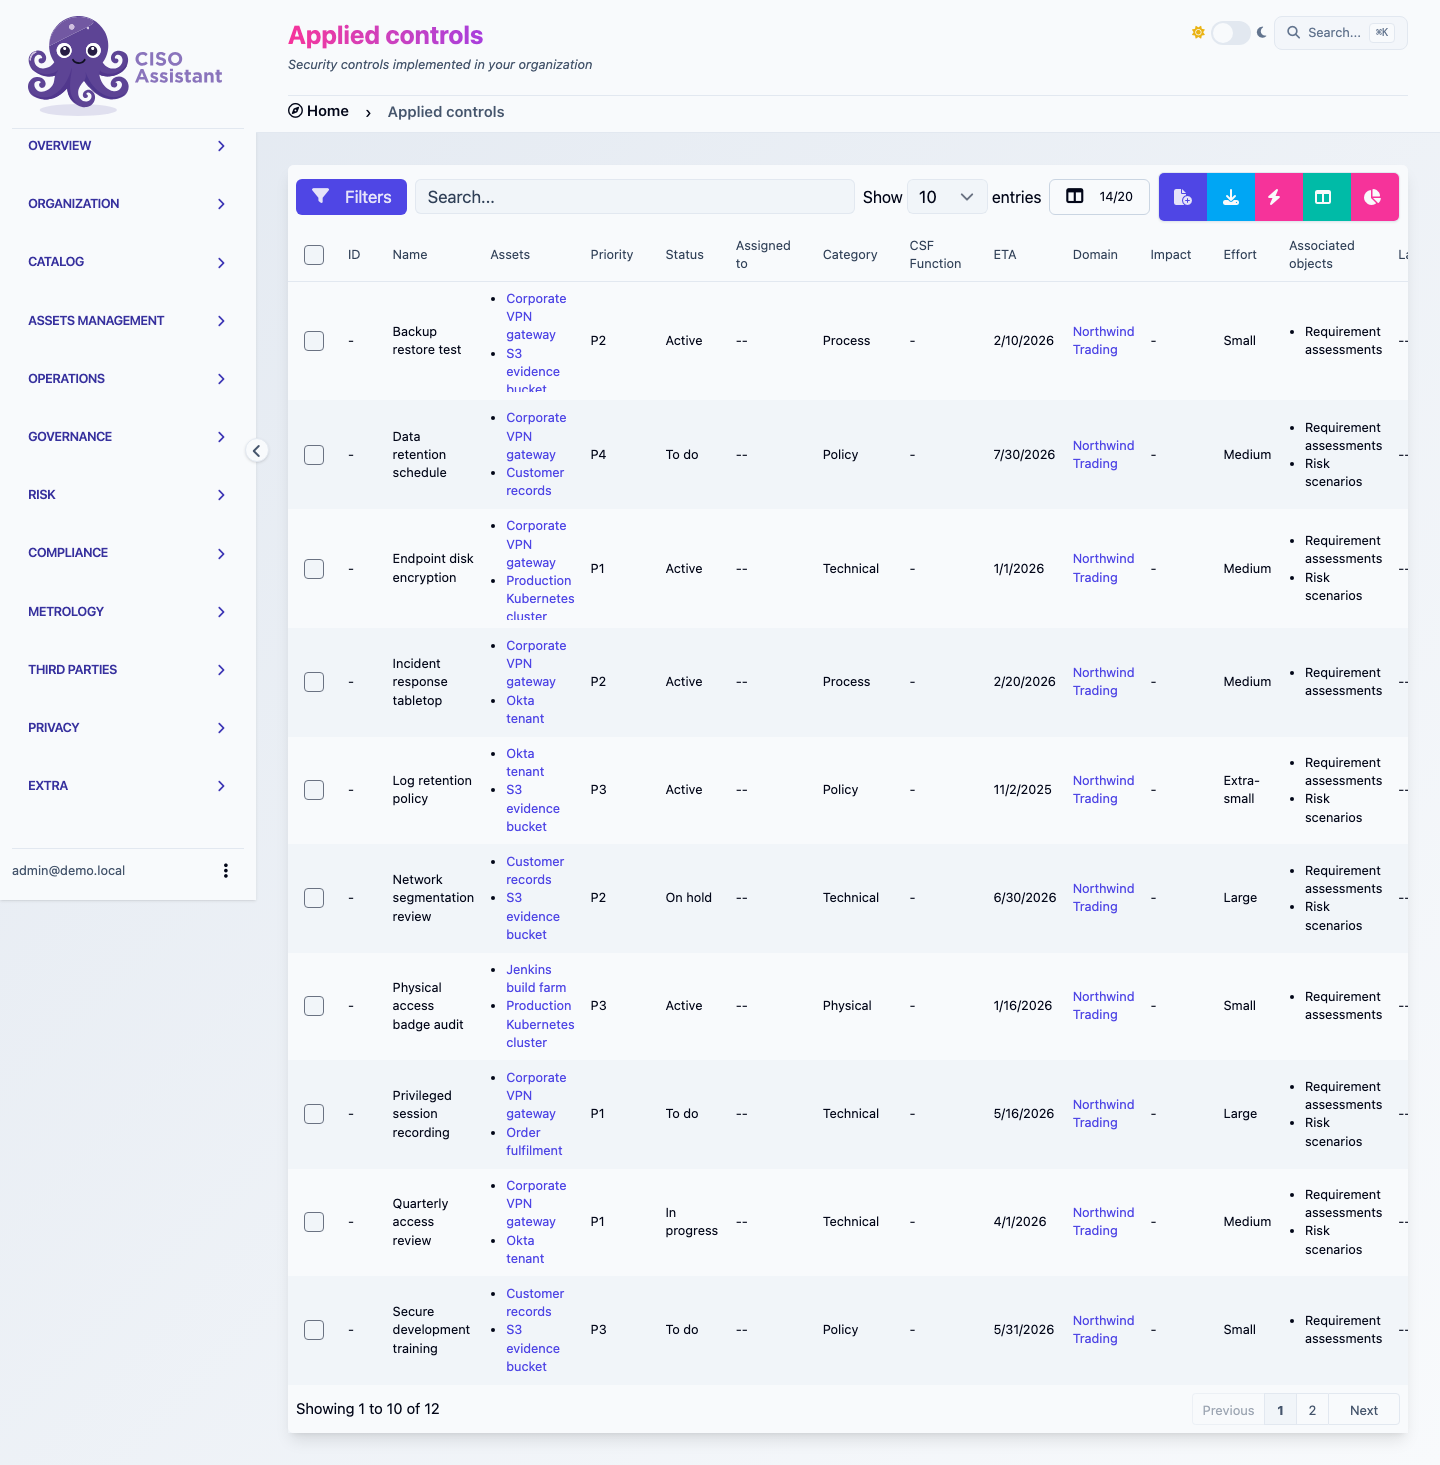
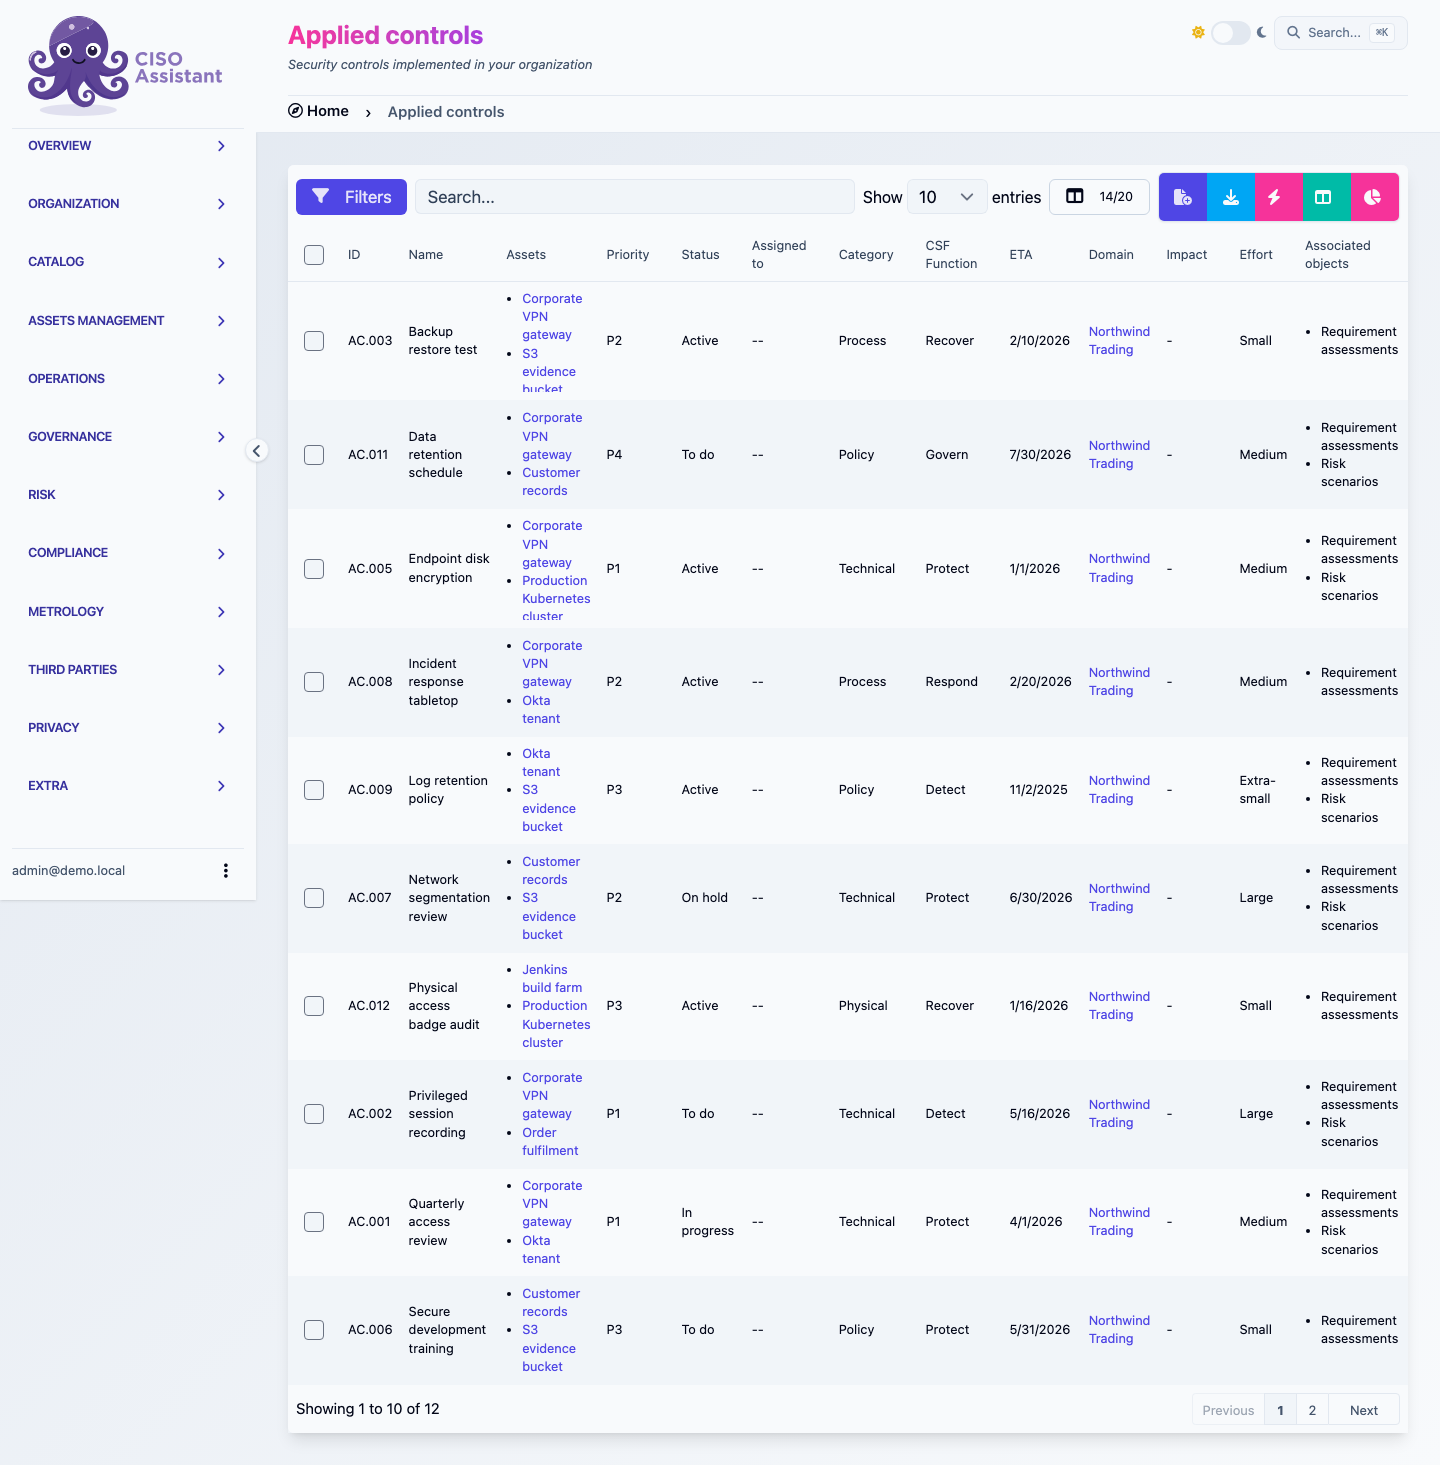
fixup

diff --git a/frontend/tests/docs-screenshots/manifest.ts b/frontend/tests/docs-screenshots/manifest.ts
@@ -91,13 +91,30 @@ export const shots: Shot[] = [
 	{
 		slug: 'applied-controls-full',
 		url: '/applied-controls',
-		usedBy: ['features/applied-controls.md'],
+		usedBy: ['concepts/applied-controls.md'],
 		fullPage: true
 	},
 	{
 		slug: 'risk-matrices-list',
 		url: '/risk-matrices',
-		usedBy: ['concepts/risk-matrices.md']
+		usedBy: ['concepts/libraries.md']
+	},
+	{
+		// The concept page is about the grid, not the catalogue row — the list
+		// view shows none of the anatomy the prose describes.
+		slug: 'risk-matrix-detail',
+		url: '/risk-matrices',
+		usedBy: ['concepts/risk-matrices.md'],
+		then: openDetail('risk-matrices', '5x5 ISO-27005'),
+		// The route renders a raw field dump above the grid; anchor on the
+		// matrix's own axis header and climb to the wrapper it is mounted in.
+		clip: (page) =>
+			page
+				.locator('[data-testid="x-axis-header-0"]')
+				// `wrapperClass` lands on the grid itself (RiskMatrix.svelte:160);
+				// the axis titles and the risk-level legend are its siblings, so
+				// the clip has to be the grid's parent.
+				.locator('xpath=ancestor::div[contains(@class,"mt-8")][1]/..')
 	},
 	{
 		slug: 'libraries-catalog',

diff --git a/backend/core/management/commands/seed_docs_demo.py b/backend/core/management/commands/seed_docs_demo.py
@@ -64,19 +64,95 @@ SUPPORTING_ASSETS = [
     ("Okta tenant", "Workforce identity provider, SAML and SCIM."),
 ]
 
+# ref_id, name, category, csf_function, status, priority, effort, eta offset.
+# csf_function is spread across all six functions on purpose: the analytics
+# summary renders a CSF radar, and controls left unset collapse into a single
+# "--" wedge that makes the chart useless as a documentation image.
 CONTROLS = [
-    ("Quarterly access review", "technical", "in_progress", 1, "M", 30),
-    ("Privileged session recording", "technical", "to_do", 1, "L", 75),
-    ("Backup restore test", "process", "active", 2, "S", -20),
-    ("Supplier security questionnaire", "process", "in_progress", 2, "M", 45),
-    ("Endpoint disk encryption", "technical", "active", 1, "M", -60),
-    ("Secure development training", "policy", "to_do", 3, "S", 90),
-    ("Network segmentation review", "technical", "on_hold", 2, "L", 120),
-    ("Incident response tabletop", "process", "active", 2, "M", -10),
-    ("Log retention policy", "policy", "active", 3, "XS", -120),
-    ("Vulnerability scanning cadence", "technical", "in_progress", 1, "S", 15),
-    ("Data retention schedule", "policy", "to_do", 4, "M", 150),
-    ("Physical access badge audit", "physical", "active", 3, "S", -45),
+    (
+        "AC.001",
+        "Quarterly access review",
+        "technical",
+        "protect",
+        "in_progress",
+        1,
+        "M",
+        30,
+    ),
+    (
+        "AC.002",
+        "Privileged session recording",
+        "technical",
+        "detect",
+        "to_do",
+        1,
+        "L",
+        75,
+    ),
+    ("AC.003", "Backup restore test", "process", "recover", "active", 2, "S", -20),
+    (
+        "AC.004",
+        "Supplier security questionnaire",
+        "process",
+        "govern",
+        "in_progress",
+        2,
+        "M",
+        45,
+    ),
+    (
+        "AC.005",
+        "Endpoint disk encryption",
+        "technical",
+        "protect",
+        "active",
+        1,
+        "M",
+        -60,
+    ),
+    ("AC.006", "Secure development training", "policy", "protect", "to_do", 3, "S", 90),
+    (
+        "AC.007",
+        "Network segmentation review",
+        "technical",
+        "protect",
+        "on_hold",
+        2,
+        "L",
+        120,
+    ),
+    (
+        "AC.008",
+        "Incident response tabletop",
+        "process",
+        "respond",
+        "active",
+        2,
+        "M",
+        -10,
+    ),
+    ("AC.009", "Log retention policy", "policy", "detect", "active", 3, "XS", -120),
+    (
+        "AC.010",
+        "Vulnerability scanning cadence",
+        "technical",
+        "identify",
+        "in_progress",
+        1,
+        "S",
+        15,
+    ),
+    ("AC.011", "Data retention schedule", "policy", "govern", "to_do", 4, "M", 150),
+    (
+        "AC.012",
+        "Physical access badge audit",
+        "physical",
+        "recover",
+        "active",
+        3,
+        "S",
+        -45,
+    ),
 ]
 
 AUDITS = [
@@ -185,13 +261,18 @@ class Command(BaseCommand):
         come back shuffled after each database rebuild.
         """
         base = datetime.combine(TODAY, time(9, 0), tzinfo=timezone.utc)
+        # Library-loaded referentials are stamped at import time, so they drift
+        # too whenever the database is rebuilt — and their detail pages show
+        # Created at / Updated at.
         models = (
             Asset,
             AppliedControl,
             ComplianceAssessment,
+            Framework,
             Perimeter,
             RequirementAssessment,
             RiskAssessment,
+            RiskMatrix,
             RiskScenario,
             Threat,
         )
@@ -280,14 +361,23 @@ class Command(BaseCommand):
     def build_controls(self, domain, assets):
         references = list(ReferenceControl.objects.order_by("urn")[:12])
         controls = []
-        for index, (name, category, status, priority, effort, eta_offset) in enumerate(
-            CONTROLS
-        ):
+        for index, (
+            ref_id,
+            name,
+            category,
+            csf_function,
+            status,
+            priority,
+            effort,
+            eta_offset,
+        ) in enumerate(CONTROLS):
             control, created = AppliedControl.objects.get_or_create(
                 name=name,
                 folder=domain,
                 defaults={
+                    "ref_id": ref_id,
                     "category": category,
+                    "csf_function": csf_function,
                     "status": status,
                     "priority": priority,
                     "effort": effort,

diff --git a/product-docs/concepts/audits.md b/product-docs/concepts/audits.md
@@ -37,6 +37,8 @@ An audit assesses compliance against the chosen framework. The evaluation of a s
 
 A requirement assessment is not a single value — it captures _several dimensions_ at once, separating **the compliance result** from **how the work got done** and from **the depth of the implementation**. The point is that the same row tracks the auditor's view, the analyst's progress, and the maturity of the underlying implementation without conflating them.
 
+<figure><img src="../.gitbook/assets/audits-list.png" alt=""><figcaption><p>Audits listed with their framework, perimeter and Progress percentage</p></figcaption></figure>
+
 ### Progress column
 
 Every audit in the audit tables (and on dashboards and campaigns) shows a **Progress** percentage. It answers a single question: _how much of the audit has been assessed?_
@@ -88,6 +90,8 @@ For questionnaire-driven frameworks (whether authored in the [library builder](.
 Text type questions are not taken into account for the result computation: leaving one empty does not hold the requirement at **Not assessed**.
 
 If you maintain a tenant whose audits were produced under the older boolean-collapse logic, see [Special cases — Recompute assessment results](../installation/special-cases.md#recompute-assessment-results-after-the-semantic-compute_result-upgrade) for the realignment procedure.
+
+<figure><img src="../.gitbook/assets/audit-detail.png" alt=""><figcaption><p>The audit page — the compliance donut summarises the results across every assessable requirement</p></figcaption></figure>
 
 ### Analyst dimension (assignee + workflow status)
 

diff --git a/product-docs/concepts/domains.md b/product-docs/concepts/domains.md
@@ -4,6 +4,8 @@ A **domain** is a top-level container in CISO Assistant. It represents an organi
 
 Domains are the platform's primary mechanism for **access control** and **reporting boundaries**: a user's roles are granted _on a domain_, and most reports, dashboards, and audit roll-ups can be filtered by domain.
 
+<figure><img src="../.gitbook/assets/domains-list.png" alt=""><figcaption><p>The domain list — the Parent domain column is what makes the hierarchy visible</p></figcaption></figure>
+
 ## Building a hierarchy
 
 A domain can have a **parent domain** (`parent_folder` internally) — that's how you build a tree of sub-domains beneath a top-level one. The hierarchy lets you mirror the shape of your organisation in the platform: a "Group" domain on top, "Region" or "Subsidiary" domains beneath, "Business unit" or "Programme" domains beneath those, and so on.

diff --git a/product-docs/concepts/risk-matrices.md b/product-docs/concepts/risk-matrices.md
@@ -38,6 +38,8 @@ A matrix has four pieces:
 
 The grid is the substance of the matrix; the visual rendering (orientation, colours, layout) is handled by the UI based on the loaded matrix definition.
 
+<figure><img src="../.gitbook/assets/risk-matrix-detail.png" alt=""><figcaption><p>The 5x5 ISO-27005 grid: probability levels down the side, impact levels along the bottom, each cell resolving to a risk level</p></figcaption></figure>
+
 ## Why a matrix is fixed per risk assessment
 
 When a risk assessment is created, its risk matrix is captured and **stays fixed** for the lifetime of that assessment. Re-evaluating the same scenarios against a different matrix would silently change the risk levels under your feet, which is exactly what auditors don't want.

diff --git a/product-docs/concepts/applied-controls.md b/product-docs/concepts/applied-controls.md
@@ -81,6 +81,8 @@ Why the lifecycle matters across the platform:
 
 The transitions aren't enforced as a strict state machine — you can move a control between any two statuses — but staying within the lifecycle above makes audit trails and analytics meaningful.
 
+<figure><img src="../.gitbook/assets/applied-controls-full.png" alt=""><figcaption><p>The applied control list, showing Status, Priority and ETA together</p></figcaption></figure>
+
 ## Financial tracking
 
 Applied controls carry a structured **cost** field, so the financial weight of your security programme isn't a separate spreadsheet — it's attached to the controls themselves and rolled up wherever they appear (most notably on every [action plan](../features/action-plans.md)).

diff --git a/product-docs/concepts/perimeters.md b/product-docs/concepts/perimeters.md
@@ -4,6 +4,8 @@ A **perimeter** is an _optional_ scope refinement an assessment or risk study ca
 
 Perimeters are optional everywhere they appear: an assessment without a perimeter is scoped to its domain only. Use them when you need to track several distinct scopes inside the same domain, or to roll up assessments by scope rather than by domain.
 
+<figure><img src="../.gitbook/assets/perimeters-list.png" alt=""><figcaption><p>Three perimeters inside a single domain</p></figcaption></figure>
+
 ## When to use a domain vs a perimeter
 
 The two concepts solve different problems — and the choice matters because it shapes both _who can see what_ and _how reports roll up_.

diff --git a/product-docs/guides/first-risk-assessment.md b/product-docs/guides/first-risk-assessment.md
@@ -13,6 +13,8 @@ How to create a risk assessment
 3. We find three parts: details about the assessment, the list of associated risk scenarios and the risk matrix view.&#x20;
 4. Let's add the first **scenario** and do the current assessment of it.
 
+<figure><img src="../.gitbook/assets/risk-assessment-detail.png" alt=""><figcaption><p>The risk assessment page: assessment details above, associated risk scenarios below</p></figcaption></figure>
+
 {% hint style="warning" %}
 You can see that I didn't find the threat I was looking for in the imported library, so I decided to create my custom threat.
 {% endhint %}

diff --git a/product-docs/guides/first-audit.md b/product-docs/guides/first-audit.md
@@ -13,6 +13,8 @@ How to create an audit
 3. You can edit it if needed, or go directly into the assessment. Each **requirement** has a <mark style="color:purple;">To do</mark> status by default.
 4. Finally, we can select a requirement and start its assessment by adding applied controls or evidences and update its status to complete the progress bars.
 
+<figure><img src="../.gitbook/assets/audits-list.png" alt=""><figcaption><p>The new audit in the audit list</p></figcaption></figure>
+
 {% hint style="success" %}
 Now that you're familiar with audit, let's go a step further with risk assessment.
 {% endhint %}

diff --git a/product-docs/guides/general-tips.md b/product-docs/guides/general-tips.md
@@ -14,3 +14,5 @@ That said, here are some standard recommendations to get the most of it when you
 8. Share the insights with your organisation, review the priorities, and keep it alive.
 9. Expand your coverage: periodic tasks, incidents, third-party risk, findings management.
 10. Always keep focus on the actions and reflect their data on the other concepts.
+
+<figure><img src="../.gitbook/assets/analytics-overview.png" alt=""><figcaption><p>The Analytics summary, where steps 6 to 8 above show up as numbers</p></figcaption></figure>

diff --git a/product-docs/concepts/libraries.md b/product-docs/concepts/libraries.md
@@ -25,6 +25,8 @@ A library starts life as a **stored** record — its YAML is parsed and register
 | Loaded library | `LoadedLibrary` | Activated; contents visible across the platform |
 | Mapping set | `RequirementMappingSet` | Crosswalk between two frameworks |
 
+<figure><img src="../.gitbook/assets/libraries-catalog.png" alt=""><figcaption><p>The library store, where a stored library is loaded on demand</p></figcaption></figure>
+
 ## Stored vs loaded
 
 A library can be in one of two states:

diff --git a/product-docs/guides/first-perimeter.md b/product-docs/guides/first-perimeter.md
@@ -17,6 +17,8 @@ How to create a perimeter
 1. Once logged in, the first step is to create a domain. Let's call it R\&D.
 2. Then we create the perimeter inside of it or from the perimeter list view.
 
+<figure><img src="../.gitbook/assets/perimeters-list.png" alt=""><figcaption><p>The perimeter list once the first perimeter exists</p></figcaption></figure>
+
 {% hint style="success" %}
 That's it! you just created your first perimeter. The next step will be to create an audit.
 {% endhint %}
